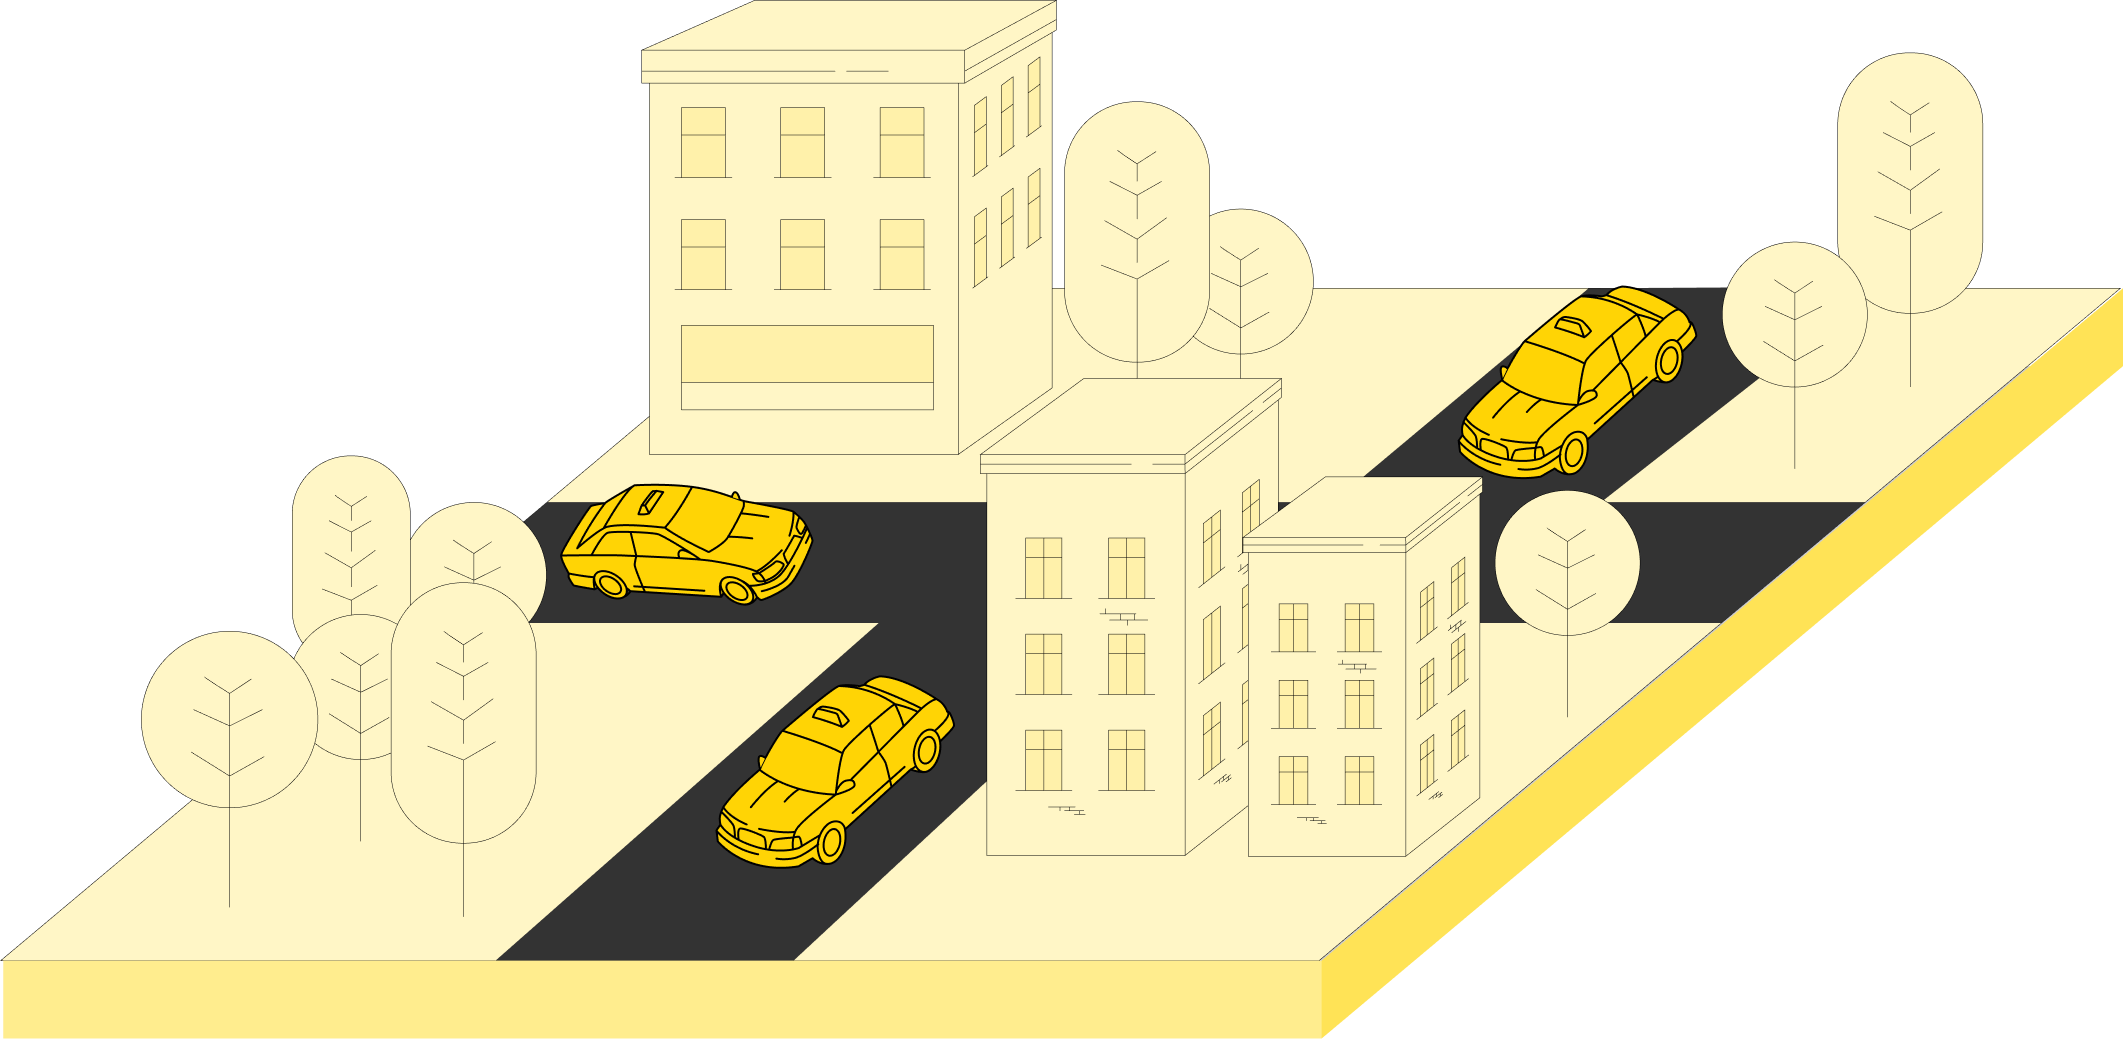
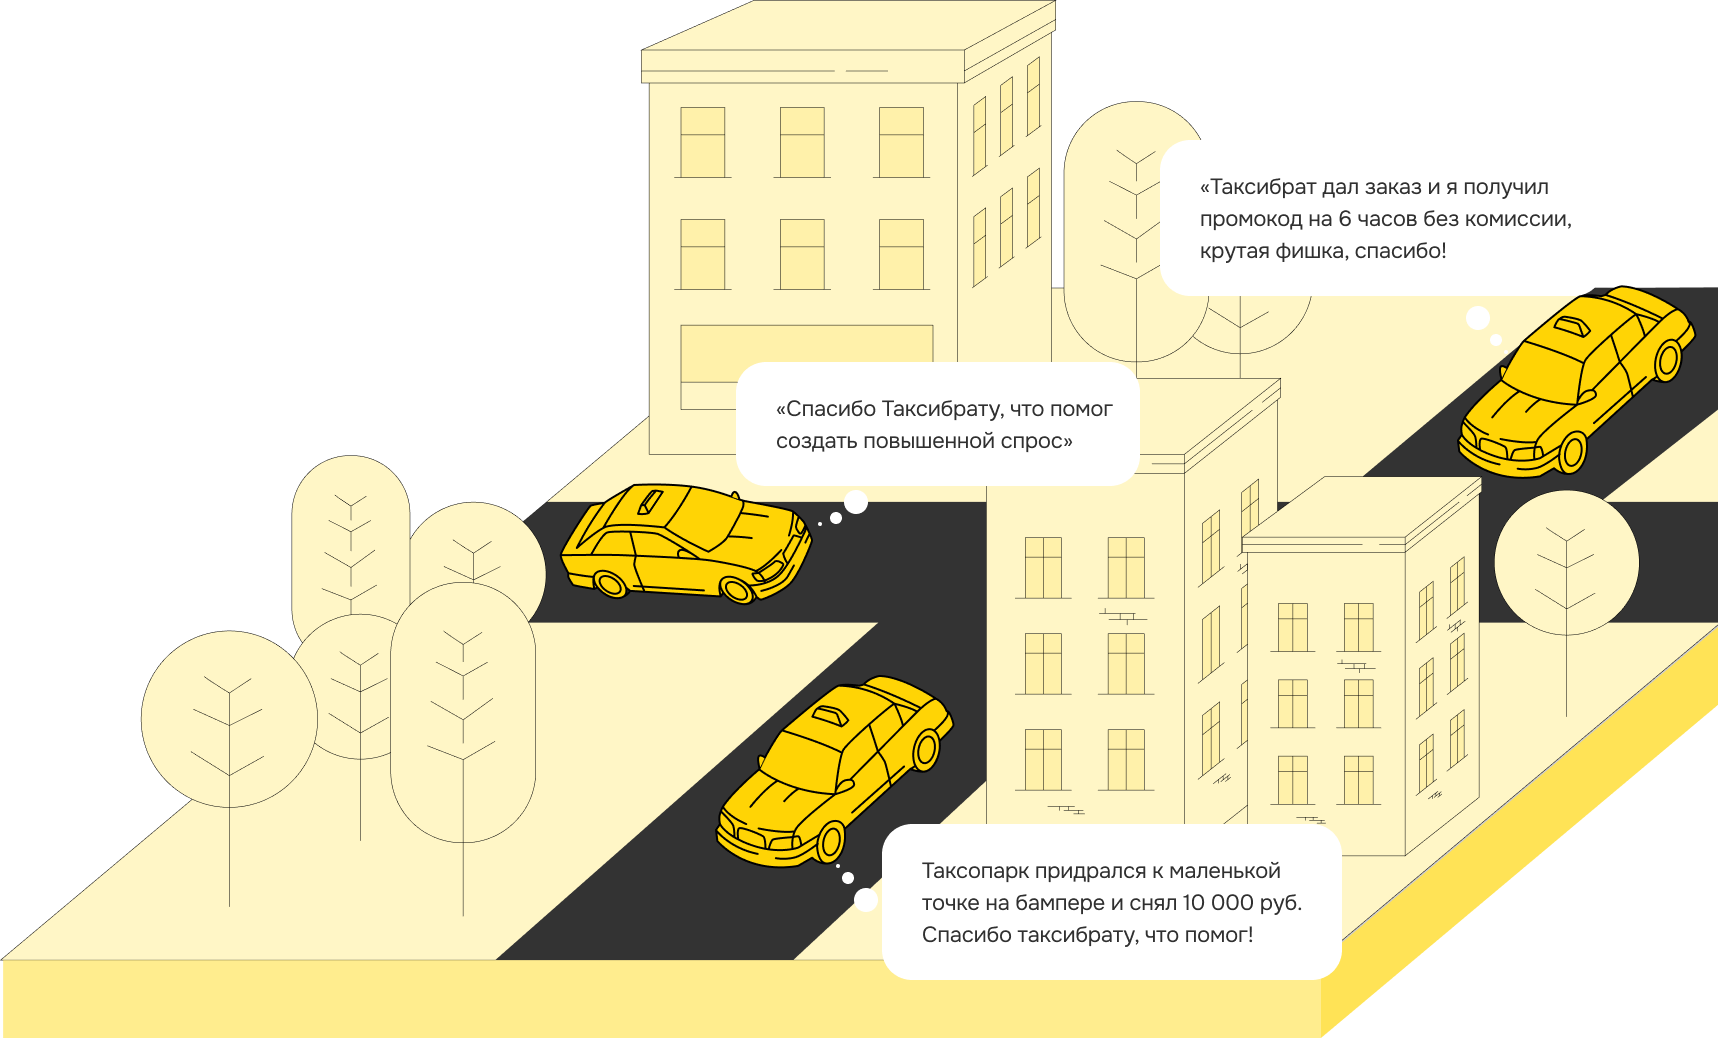
feat(home): re-export иллюстраций из Figma в правильных пропорциях
Через Figma file API нашёл точные node-id иллюстраций и пропорции:
- 252:13184 hero — 859x519 (был 2123x1039 = неправильный aspect)
- 349:24390 По делам — 323x312
- 384:25119 Выкуп — 306x332
- 411:25024 Проверка — 345x302
- 394:23073 Подключим — 319x294

Re-export каждый в @user scale:
  GET /v1/images/<file>?ids=<n>&scale=2

Перезаписал hero.png + 4 feature-*.png с правильными пропорциями.
В page.tsx обновил width/height у hero <Image> с 2123x1039 на 1718x1038
(actual @user), у feature card на 691x664 (наибольший common aspect).

diff --git a/apps/web/src/app/(main)/page.tsx b/apps/web/src/app/(main)/page.tsx
@@ -280,8 +280,8 @@ export default function HomePage() {
               <Image
                 src="/figma/hero.png"
                 alt=""
-                width={2123}
-                height={1039}
+                width={1718}
+                height={1038}
                 priority
                 className="w-full h-auto relative z-10"
               />
@@ -515,8 +515,8 @@ export default function HomePage() {
                   <Image
                     src={f.image}
                     alt=""
-                    width={640}
-                    height={640}
+                    width={691}
+                    height={664}
                     className="absolute bottom-0 right-0 w-[180px] md:w-[340px] h-auto object-contain pointer-events-none select-none"
                   />
                 </div>